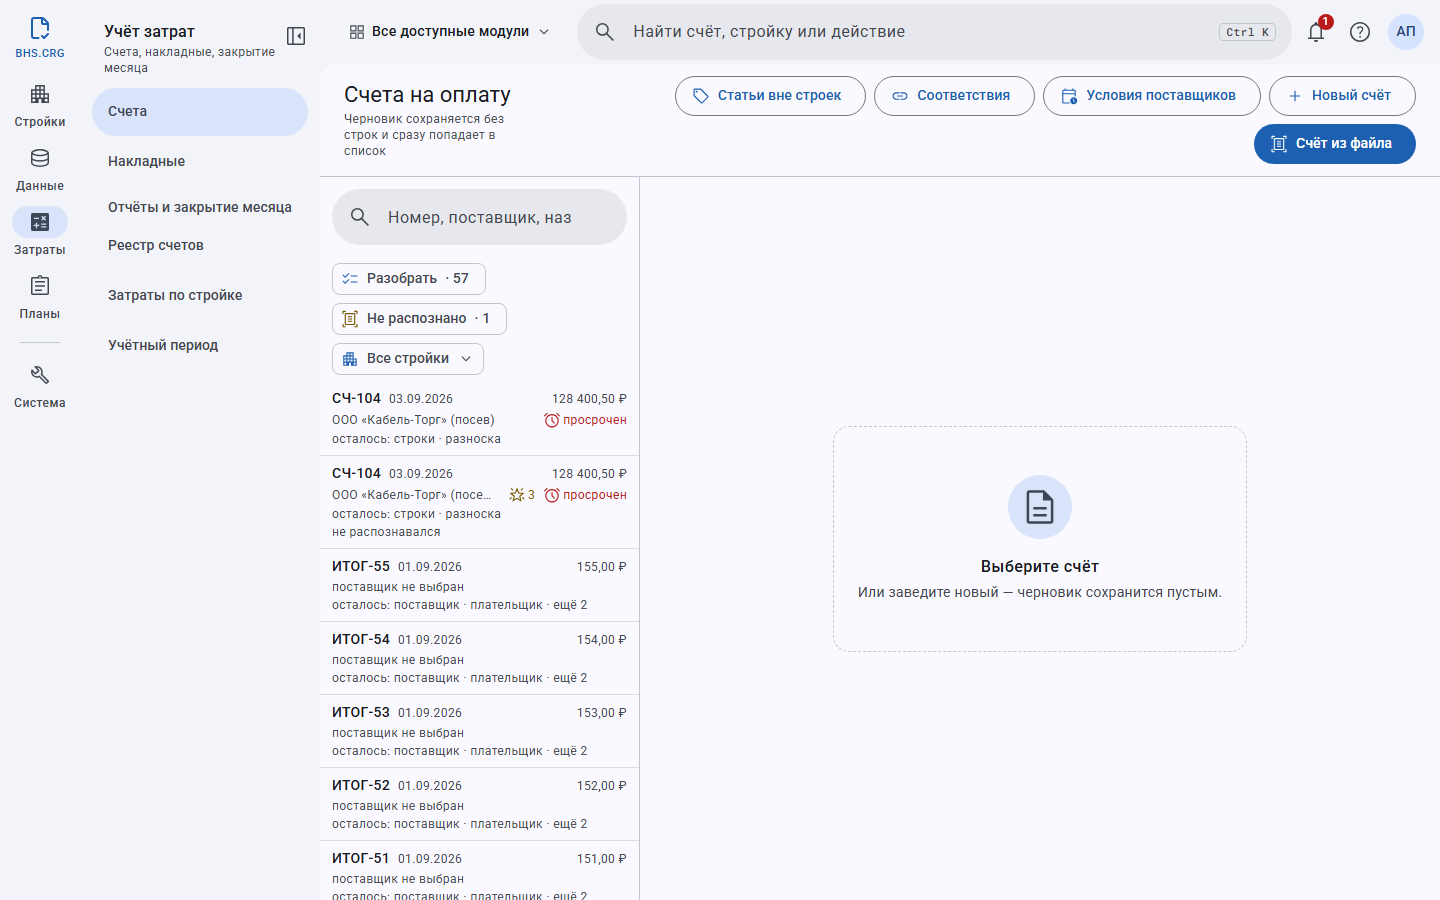
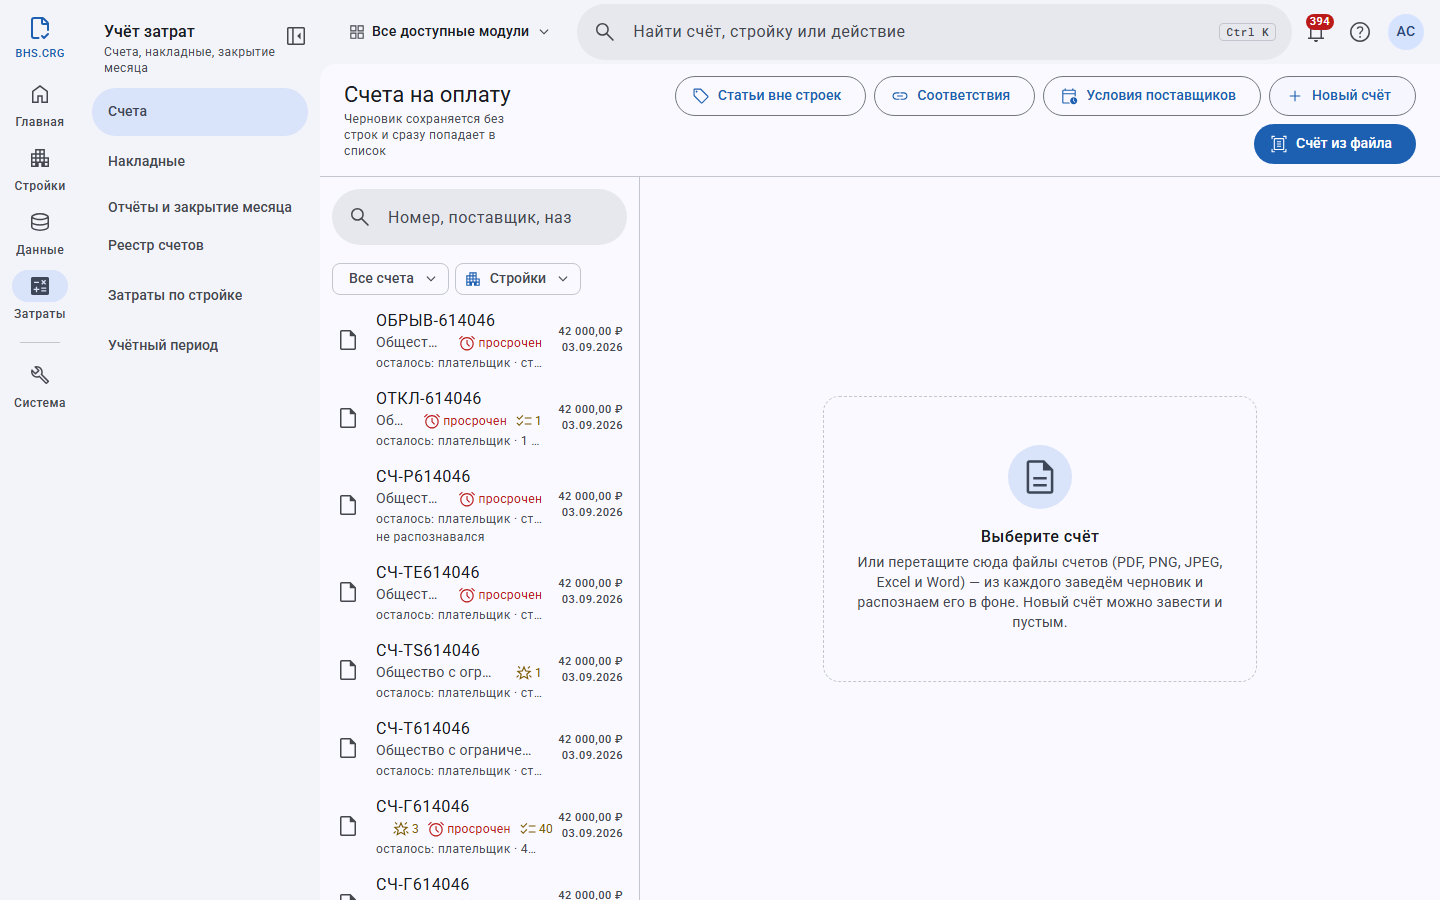
Инструкция: снимок списка счетов — чип очередей и «Стройки» (#1934)
docs/images/u-invoices.png снят заново (1440×900, оформление продукта по
умолчанию): очереди над лентой — один чип «Все счета» с меню, рядом
«Стройки», вместо прежних отдельных чипов «Разобрать» и «Не распознано».
Подпись картинки в USER_GUIDE — по новому виду.

diff --git a/docs/USER_GUIDE.md b/docs/USER_GUIDE.md
@@ -1459,7 +1459,7 @@ Excel и материализация. Данные **всегда свежие*
 1. **«Затраты» → «Счета» → «Счёт из файла»** — выберите PDF, скан, Excel или Word. Черновик появляется
    сразу, файл читается в фоне (раздел 13.4). Без файла — кнопка «Новый счёт».
 
-   ![Список счетов: «Счёт из файла», «Новый счёт» и отбор «Разобрать»](images/u-invoices.png)
+   ![Список счетов: «Счёт из файла», «Новый счёт», чип очередей «Все счета» и отбор «Стройки»](images/u-invoices.png)
 
 2. **Сверьте прочитанное с файлом справа.** Поля, вписанные распознаванием, обведены и подписаны
    «Распознано, не подтверждено» — проверьте их и нажмите **«Всё верно»** в шапке части (раздел 13.4).
